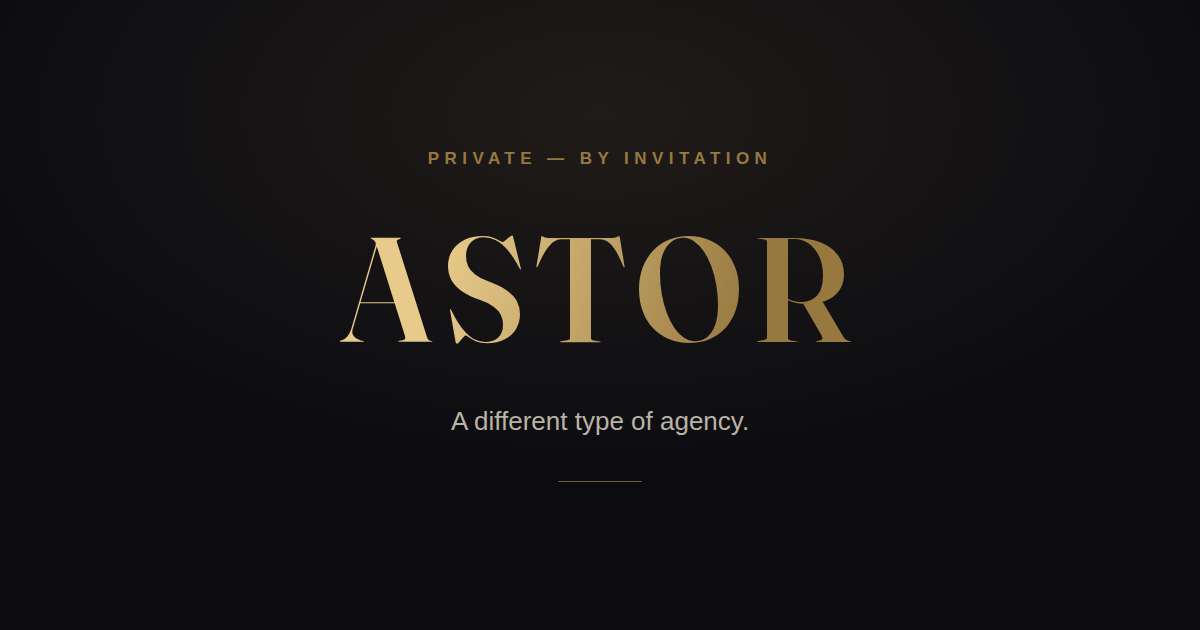
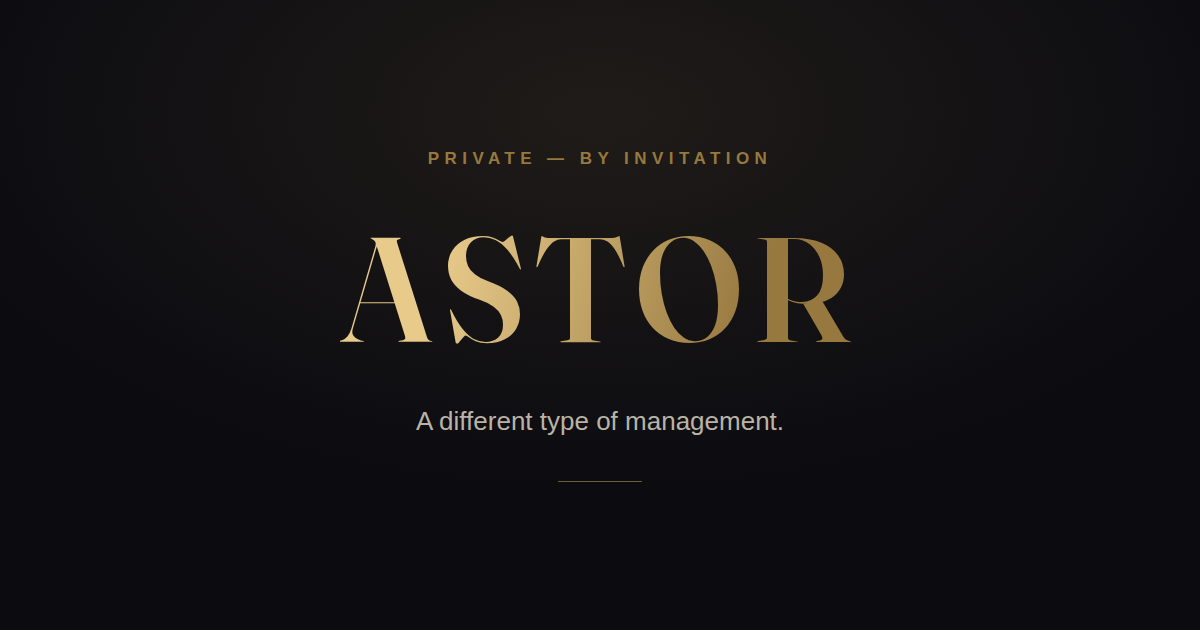
Remove all "agency" wording; reposition as management
Talent-agency licensing law makes the word a liability, so every
self-reference and industry reference is rewritten: wordmark subtitle,
tagline ("A different type of management."), manifesto, founder roles,
comparison copy, calculator notes, metadata, README, and the OG card.
Rewritten grammatically per instance rather than find-replaced.

Claude-Session: https://claude.ai/code/session_01EQ71FSQ3XP514yCgAd4MLe

Changed region(s): [[0.3392, 0.6333, 0.6475, 0.6937]]

diff --git a/src/lib/content.ts b/src/lib/content.ts
@@ -10,9 +10,9 @@ export const BRAND = {
   // Placeholder brand — swap these three lines when the name is decided.
   name: "Astor",
   wordmark: "ASTOR",
-  tagline: "A different type of agency.",
+  tagline: "A different type of management.",
   subtag:
-    "Founded with the operators behind the industry's largest chatting agency and one of its top full-service agencies, on infrastructure no other agency has.",
+    "Founded with the operators behind the industry's largest chatting operation and one of its top full-service management companies, on infrastructure no one else in the space has.",
 };
 
 export const NAV_LINKS = [
@@ -28,7 +28,7 @@ export const HEADLINE_STATS = [
   {
     value: "4×",
     label: "Minimum first-month uplift in PPV, message and tip revenue",
-    sub: "Typical agency minimum. Many models see more.",
+    sub: "Our typical minimum. Many models see more.",
   },
   {
     value: "Lowest",
@@ -50,10 +50,10 @@ export const HEADLINE_STATS = [
 
 export const MANIFESTO = {
   eyebrow: "Why we exist",
-  heading: "Most agencies ask for your trust. We removed the need for it.",
+  heading: "Most management companies ask for your trust. We removed the need for it.",
   paragraphs: [
-    "The agency model is broken in one specific way: models hand over their page, their fans, and their income to systems they can't see, run by people they've never met. When it works, they don't know why. When it stops working, they can't prove it.",
-    "Astor was built as the answer. Our backend runs on Altyr Pro, a CRM, chatting and automation platform used by no agency outside our partner network. Every message, every sale, every chatter's shift gets logged, attributed and shown to you in real time.",
+    "The management model is broken in one specific way: models hand over their page, their fans, and their income to systems they can't see, run by people they've never met. When it works, they don't know why. When it stops working, they can't prove it.",
+    "Astor was built as the answer. Our backend runs on Altyr Pro, a CRM, chatting and automation platform used by no one outside our partner network. Every message, every sale, every chatter's shift gets logged, attributed and shown to you in real time.",
     "We onboard every model individually. We learn your story, how you speak, what you will and won't sell, and how you want your page run. Then we build SOPs around you. We can do that because we built the infrastructure for it. Nobody else has.",
   ],
 };
@@ -65,15 +65,15 @@ export const FOUNDER_AUTHORITY = {
   founders: [
     {
       role: "The Chatting Operator",
-      desc: "Runs the largest chatting agency in the industry: the team that trains and staffs chatters for the biggest pages in the space.",
+      desc: "Runs the largest chatting operation in the industry: the team that trains and staffs chatters for the biggest pages in the space.",
     },
     {
-      role: "The Agency Operator",
-      desc: "Runs one of the largest full-service agencies in the industry, with the lowest model churn in the space. Models who join, stay.",
+      role: "The Full-Service Operator",
+      desc: "Runs one of the largest full-service management companies in the industry, with the lowest model churn in the space. Models who join, stay.",
     },
     {
       role: "The Systems Architect",
-      desc: "Built the infrastructure this agency runs on: the onboarding, SOP and transparency layer no other agency can offer.",
+      desc: "Built the infrastructure this operation runs on: the onboarding, SOP and transparency layer no one else can offer.",
     },
   ],
 };
@@ -164,7 +164,7 @@ export const ULTRAPRO = {
   eyebrow: "The backend",
   heading: "Run on Altyr Pro. Compared against Inflow.",
   intro:
-    "Most agencies run on Inflow. Ours runs on Altyr Pro, the most advanced CRM, chatting and automation platform in the space, used by no agency outside our partner network. What follows is the difference, dimension by dimension, illustrated with faithful renders of the product views our team works in. You'll see the real thing, live, on your call.",
+    "Most management teams run on Inflow. Ours runs on Altyr Pro, the most advanced CRM, chatting and automation platform in the space, used by no one outside our partner network. What follows is the difference, dimension by dimension, illustrated with faithful renders of the product views our team works in. You'll see the real thing, live, on your call.",
   disclaimer:
     "Comparison reflects our operating experience across both platforms. Verify current Inflow capabilities independently.",
 };
@@ -195,7 +195,7 @@ export const COMPARE_DIMENSIONS: CompareDimension[] = [
       {
         feature: "Model-visible QA results",
         ultrapro: { level: "full", note: "You can audit any conversation on your page, any time" },
-        inflow: { level: "none", note: "QA, where it exists, is internal to the agency" },
+        inflow: { level: "none", note: "QA, where it exists, is internal to the company" },
       },
     ],
   },
@@ -232,7 +232,7 @@ export const COMPARE_DIMENSIONS: CompareDimension[] = [
     key: "analytics",
     title: "Analytics & transparency",
     pitch:
-      "This is where 'a different type of agency' stops being a slogan. Altyr Pro gives you the same live dashboard we use: revenue attributed to every chatter, every send, every fan. You never have to ask how your page is doing, or take our word for it.",
+      "This is where 'a different type of management' stops being a slogan. Altyr Pro gives you the same live dashboard we use: revenue attributed to every chatter, every send, every fan. You never have to ask how your page is doing, or take our word for it.",
     screenshot: { file: "ultrapro-analytics.png", label: "Altyr Pro: live revenue attribution" },
     rows: [
       {
@@ -243,7 +243,7 @@ export const COMPARE_DIMENSIONS: CompareDimension[] = [
       {
         feature: "Model-facing live dashboard",
         ultrapro: { level: "full", note: "You see what we see: same data, same time" },
-        inflow: { level: "none", note: "Reporting is agency-side; models get summaries" },
+        inflow: { level: "none", note: "Reporting is management-side; models get summaries" },
       },
       {
         feature: "Fan spend analytics & whale tracking",
@@ -508,11 +508,11 @@ export const CONTROL = {
   eyebrow: "Your control",
   heading: "Your page. Your rules. Our infrastructure.",
   intro:
-    "Every agency says the model comes first. We built the systems that make it structurally true, designed from scratch around a simple idea: you should never have to wonder what's happening on your own page.",
+    "Every management company says the model comes first. We built the systems that make it structurally true, designed from scratch around a simple idea: you should never have to wonder what's happening on your own page.",
   pillars: [
     {
       title: "Onboarded individually, never templated",
-      desc: "We learn your story, your voice and how you want your page run, then build SOPs around you: your persona document, your boundaries, your escalation rules. We can work this way because we built the infrastructure for it. No other agency has it.",
+      desc: "We learn your story, your voice and how you want your page run, then build SOPs around you: your persona document, your boundaries, your escalation rules. We can work this way because we built the infrastructure for it. No one else has it.",
     },
     {
       title: "Full dashboard access",
@@ -546,7 +546,7 @@ export const RESULTS = {
     "We'd rather show you real dashboards than adjectives. Everything below is anonymized. Full detail, with names, on your call.",
   churn: {
     stat: "Lowest churn in the industry",
-    desc: "Models who join this team, stay. Agencies lose models when performance stalls and trust breaks. Our retention comes from removing both failure modes: transparent systems and a revenue floor most models have never seen.",
+    desc: "Models who join this team, stay. Management companies lose models when performance stalls and trust breaks. Our retention comes from removing both failure modes: transparent systems and a revenue floor most models have never seen.",
     placeholderNote: "[exact retention % and timeframe: insert when confirmed]",
   },
   // Real trajectories from the founding team's current books (dashboards below).
@@ -653,9 +653,9 @@ export const CALC = {
   eyebrow: "Revenue calculator",
   heading: "What your page looks like on our systems.",
   intro:
-    "Put in where your page is today. The projection applies our agency minimum, 4× on PPV, message and tip revenue in the first month, and you can adjust it along with everything else. This is a model, not a promise. Your real plan gets built at onboarding.",
+    "Put in where your page is today. The projection applies our minimum, 4× on PPV, message and tip revenue in the first month, and you can adjust it along with everything else. This is a model, not a promise. Your real plan gets built at onboarding.",
   upliftNote:
-    "4× is the agency's typical minimum first-month uplift on chat-driven revenue (PPV, messages, tips). Many models see more.",
+    "4× is our typical minimum first-month uplift on chat-driven revenue (PPV, messages, tips). Many models see more.",
 };
 
 export const FINAL_CTA = {

diff --git a/src/app/layout.tsx b/src/app/layout.tsx
@@ -25,12 +25,12 @@ export const metadata: Metadata = {
   ),
   title: `${BRAND.name} · ${BRAND.tagline}`,
   description:
-    "A private walkthrough of how our agency runs creator pages: systems, rates, and results.",
+    "A private walkthrough of how we run creator pages: systems, rates, and results.",
   robots: { index: false, follow: false },
   openGraph: {
     title: `${BRAND.name} · ${BRAND.tagline}`,
     description:
-      "A private walkthrough of how our agency runs creator pages: systems, rates, and results.",
+      "A private walkthrough of how we run creator pages: systems, rates, and results.",
     type: "website",
     images: [{ url: "/og.png", width: 1200, height: 630, alt: BRAND.wordmark }],
   },
@@ -38,7 +38,7 @@ export const metadata: Metadata = {
     card: "summary_large_image",
     title: `${BRAND.name} · ${BRAND.tagline}`,
     description:
-      "A private walkthrough of how our agency runs creator pages: systems, rates, and results.",
+      "A private walkthrough of how we run creator pages: systems, rates, and results.",
     images: ["/og.png"],
   },
 };

diff --git a/src/app/page.tsx b/src/app/page.tsx
@@ -16,7 +16,7 @@ const SECTION_CARDS = [
     href: "/systems",
     step: "01",
     title: "The Backend",
-    desc: "Altyr Pro vs Inflow: the side-by-side no other agency can show you.",
+    desc: "Altyr Pro vs Inflow: the side-by-side no one else can show you.",
   },
   {
     href: "/services",
@@ -59,7 +59,7 @@ export default function Home() {
           <Reveal>
             <p className="eyebrow mb-6">Private creator briefing</p>
             <h1 className="display mx-auto max-w-3xl text-5xl leading-[1.05] tracking-tight sm:text-7xl">
-              A different <span className="gold-text">type</span> of agency.
+              A different <span className="gold-text">type</span> of management.
             </h1>
             <p className="mx-auto mt-6 max-w-xl text-base leading-relaxed text-ink-2">
               {BRAND.subtag}

diff --git a/src/app/process/page.tsx b/src/app/process/page.tsx
@@ -14,7 +14,7 @@ export default function ProcessPage() {
             as="h1"
             eyebrow="How we operate"
             heading="Watch the systems run."
-            intro="Four real flows from inside the agency, played step by step, exactly as they happen on a live page. This is the operational depth most agencies keep behind the curtain."
+            intro="Four real flows from inside the operation, played step by step, exactly as they happen on a live page. This is the depth the rest of the industry keeps behind the curtain."
           />
         </div>
       </section>

diff --git a/src/app/control/page.tsx b/src/app/control/page.tsx
@@ -43,7 +43,7 @@ export default function ControlPage() {
           <div className="mx-auto max-w-2xl text-center">
             <p className="eyebrow mb-4">The test</p>
             <p className="display text-2xl leading-snug text-ink sm:text-3xl">
-              Ask any other agency for live dashboard access, your chat logs,
+              Ask any other management company for live dashboard access, your chat logs,
               and a no-lock-in contract.{" "}
               <span className="gold-text">Then ask us.</span>
             </p>

diff --git a/src/components/CompareTable.tsx b/src/components/CompareTable.tsx
@@ -44,7 +44,7 @@ export default function CompareTable({ rows }: { rows: Rows }) {
           Altyr Pro <span className="ml-1 font-normal text-muted">(us)</span>
         </div>
         <div className="border-l border-line px-5 py-3.5 text-ink-2">
-          Inflow <span className="ml-1 font-normal text-muted">(most agencies)</span>
+          Inflow <span className="ml-1 font-normal text-muted">(most teams)</span>
         </div>
       </div>
       {rows.map((row) => (

diff --git a/src/components/Nav.tsx b/src/components/Nav.tsx
@@ -22,7 +22,7 @@ export default function Nav() {
             {BRAND.wordmark}
           </span>
           <span className="hidden text-[10px] uppercase tracking-[0.25em] text-muted sm:inline">
-            agency
+            management
           </span>
         </Link>
 

diff --git a/README.md b/README.md
@@ -1,7 +1,7 @@
 # Astor — Creator Pitch Site
 
-A password-gated, interactive pitch site for walking creators through the
-agency: the Altyr Pro backend (vs Inflow), services & rates, a live revenue
+A password-gated, interactive pitch site walking creators through the
+management operation: the Altyr Pro backend (vs Inflow), services & rates, a live revenue
 calculator, animated operational flows, the model-control story, and results.
 
 Built with Next.js (App Router) + Tailwind CSS + Framer Motion. Deploys to
@@ -85,7 +85,7 @@ surfaces, ink). Fonts are set in `src/app/layout.tsx`.
 ### Calculator assumptions
 
 `src/components/Calculator.tsx` — the 4× first-month uplift on chat-driven
-revenue (agency minimum) is the default of the uplift slider; tier splits
+revenue (our minimum) is the default of the uplift slider; tier splits
 (fixed 15%/30% for single service lines, custom for stacked) are in the `TIERS`
 array there and in `SERVICES` in `content.ts`.
 
